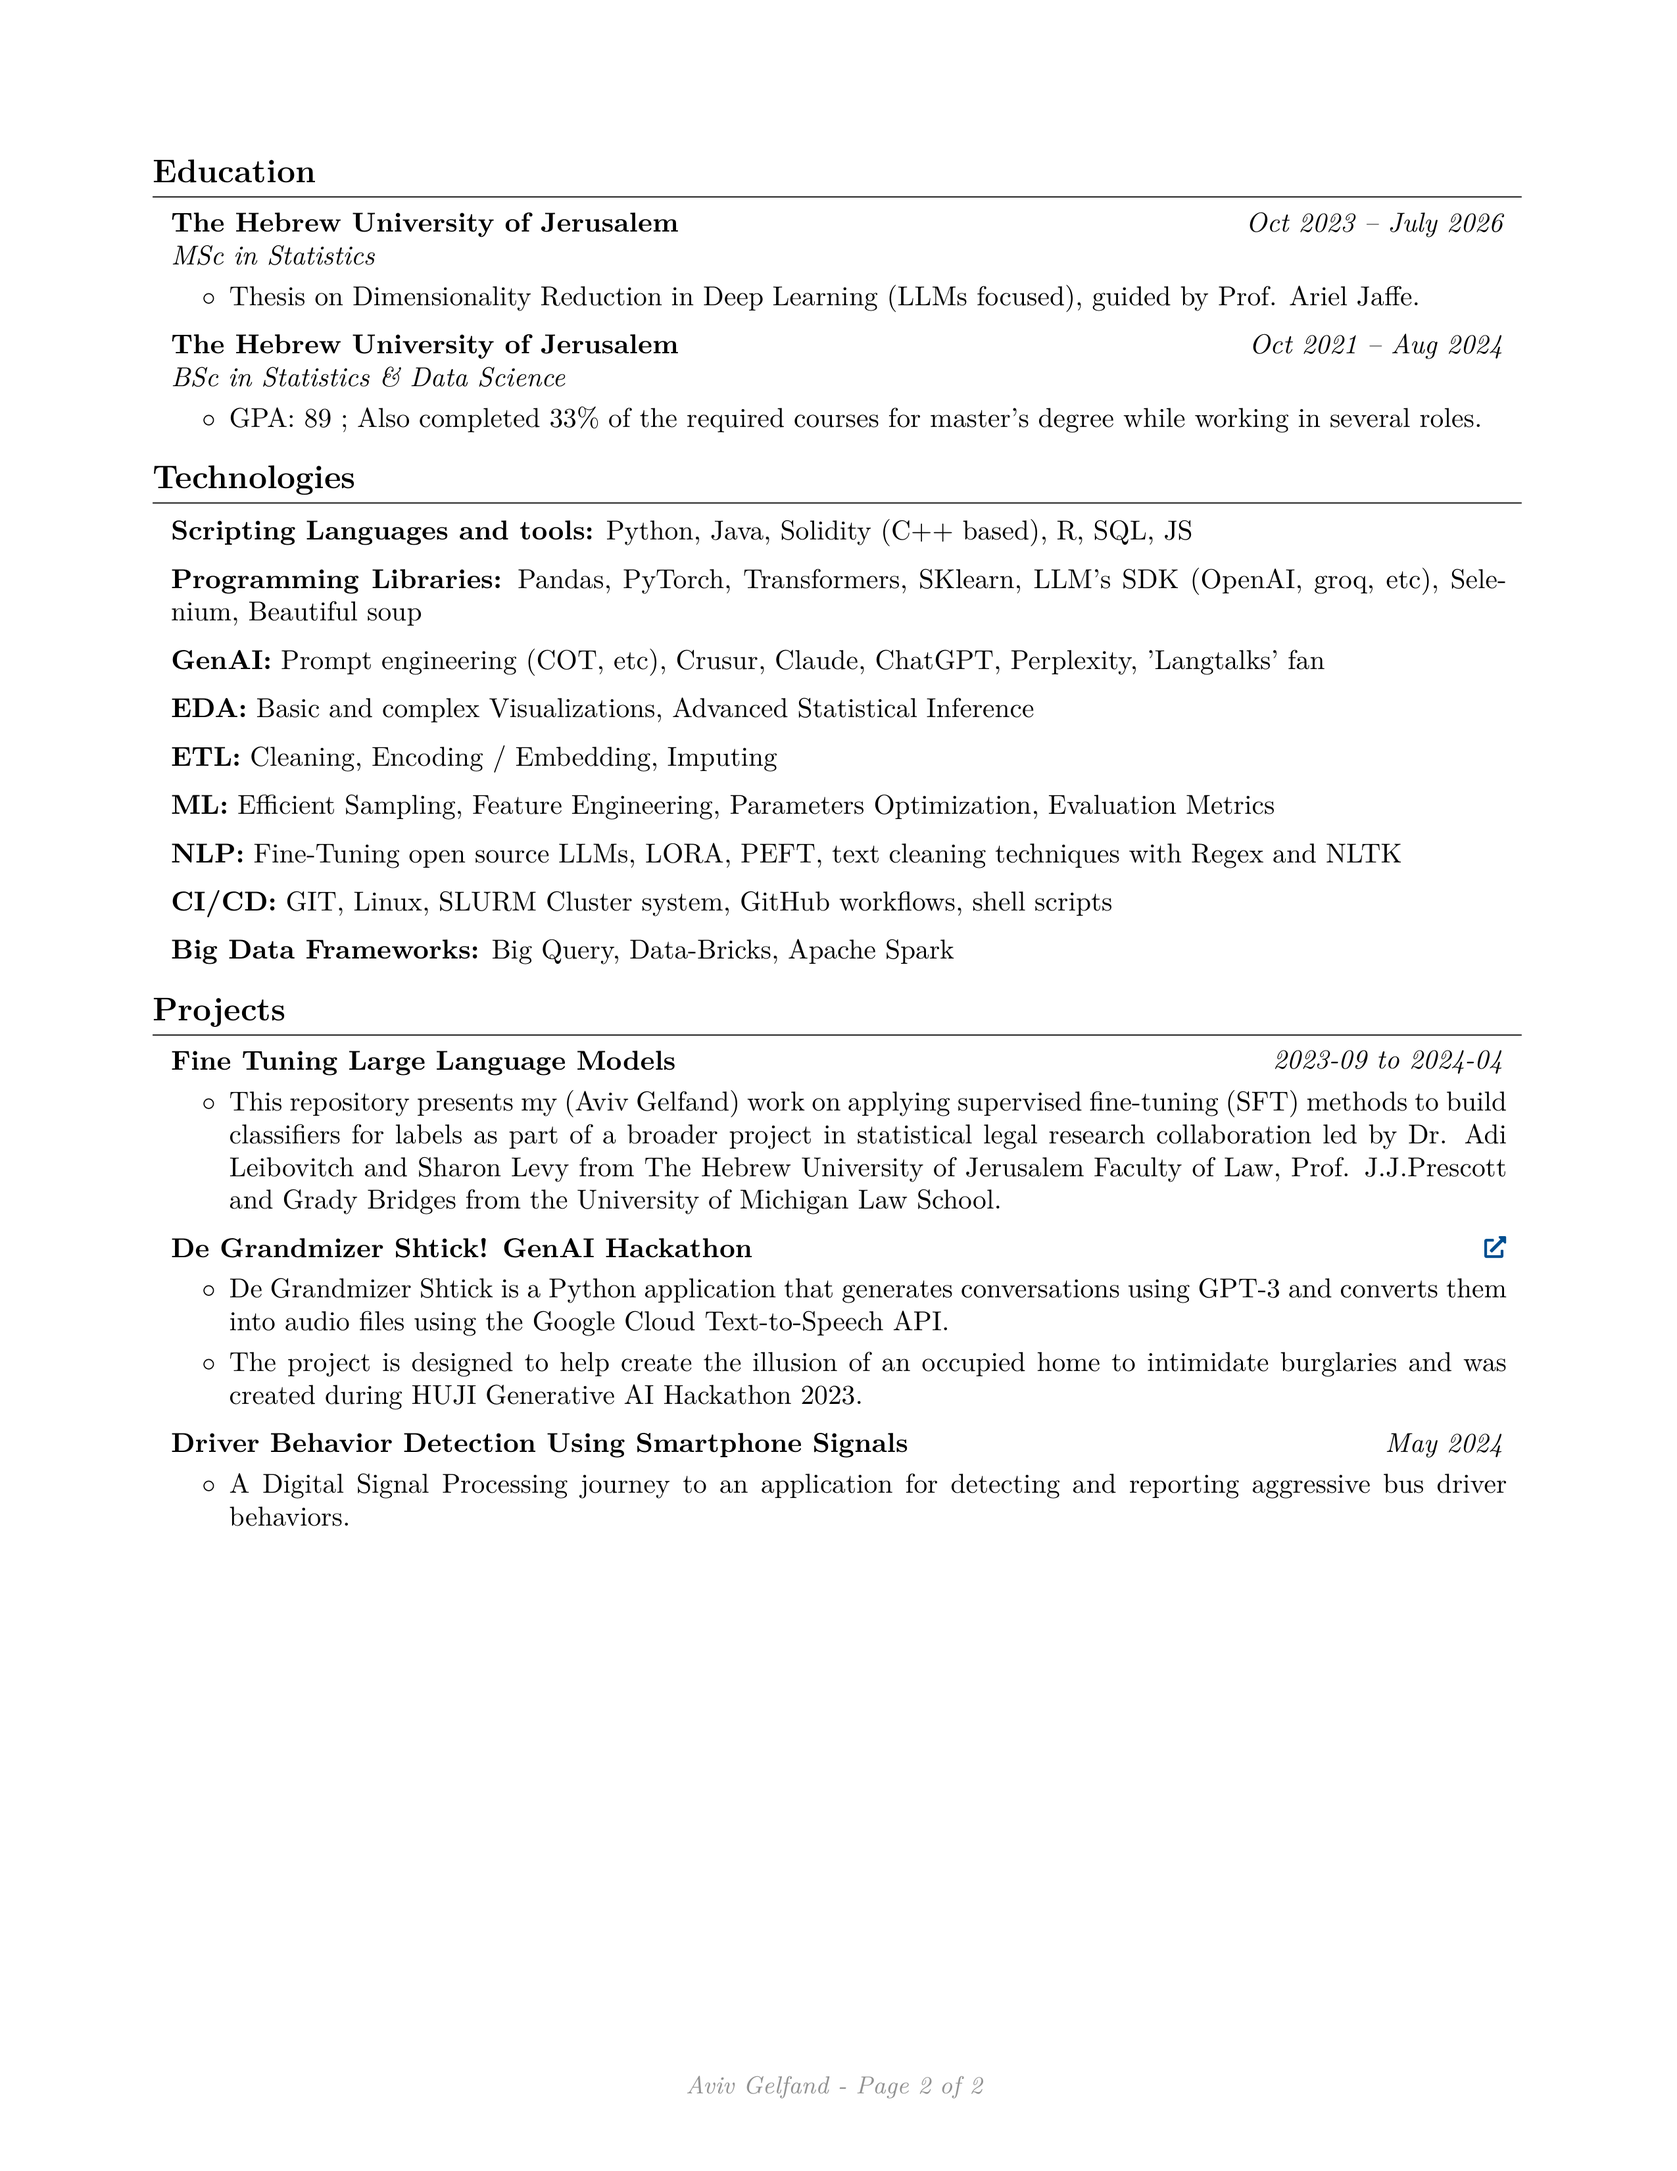
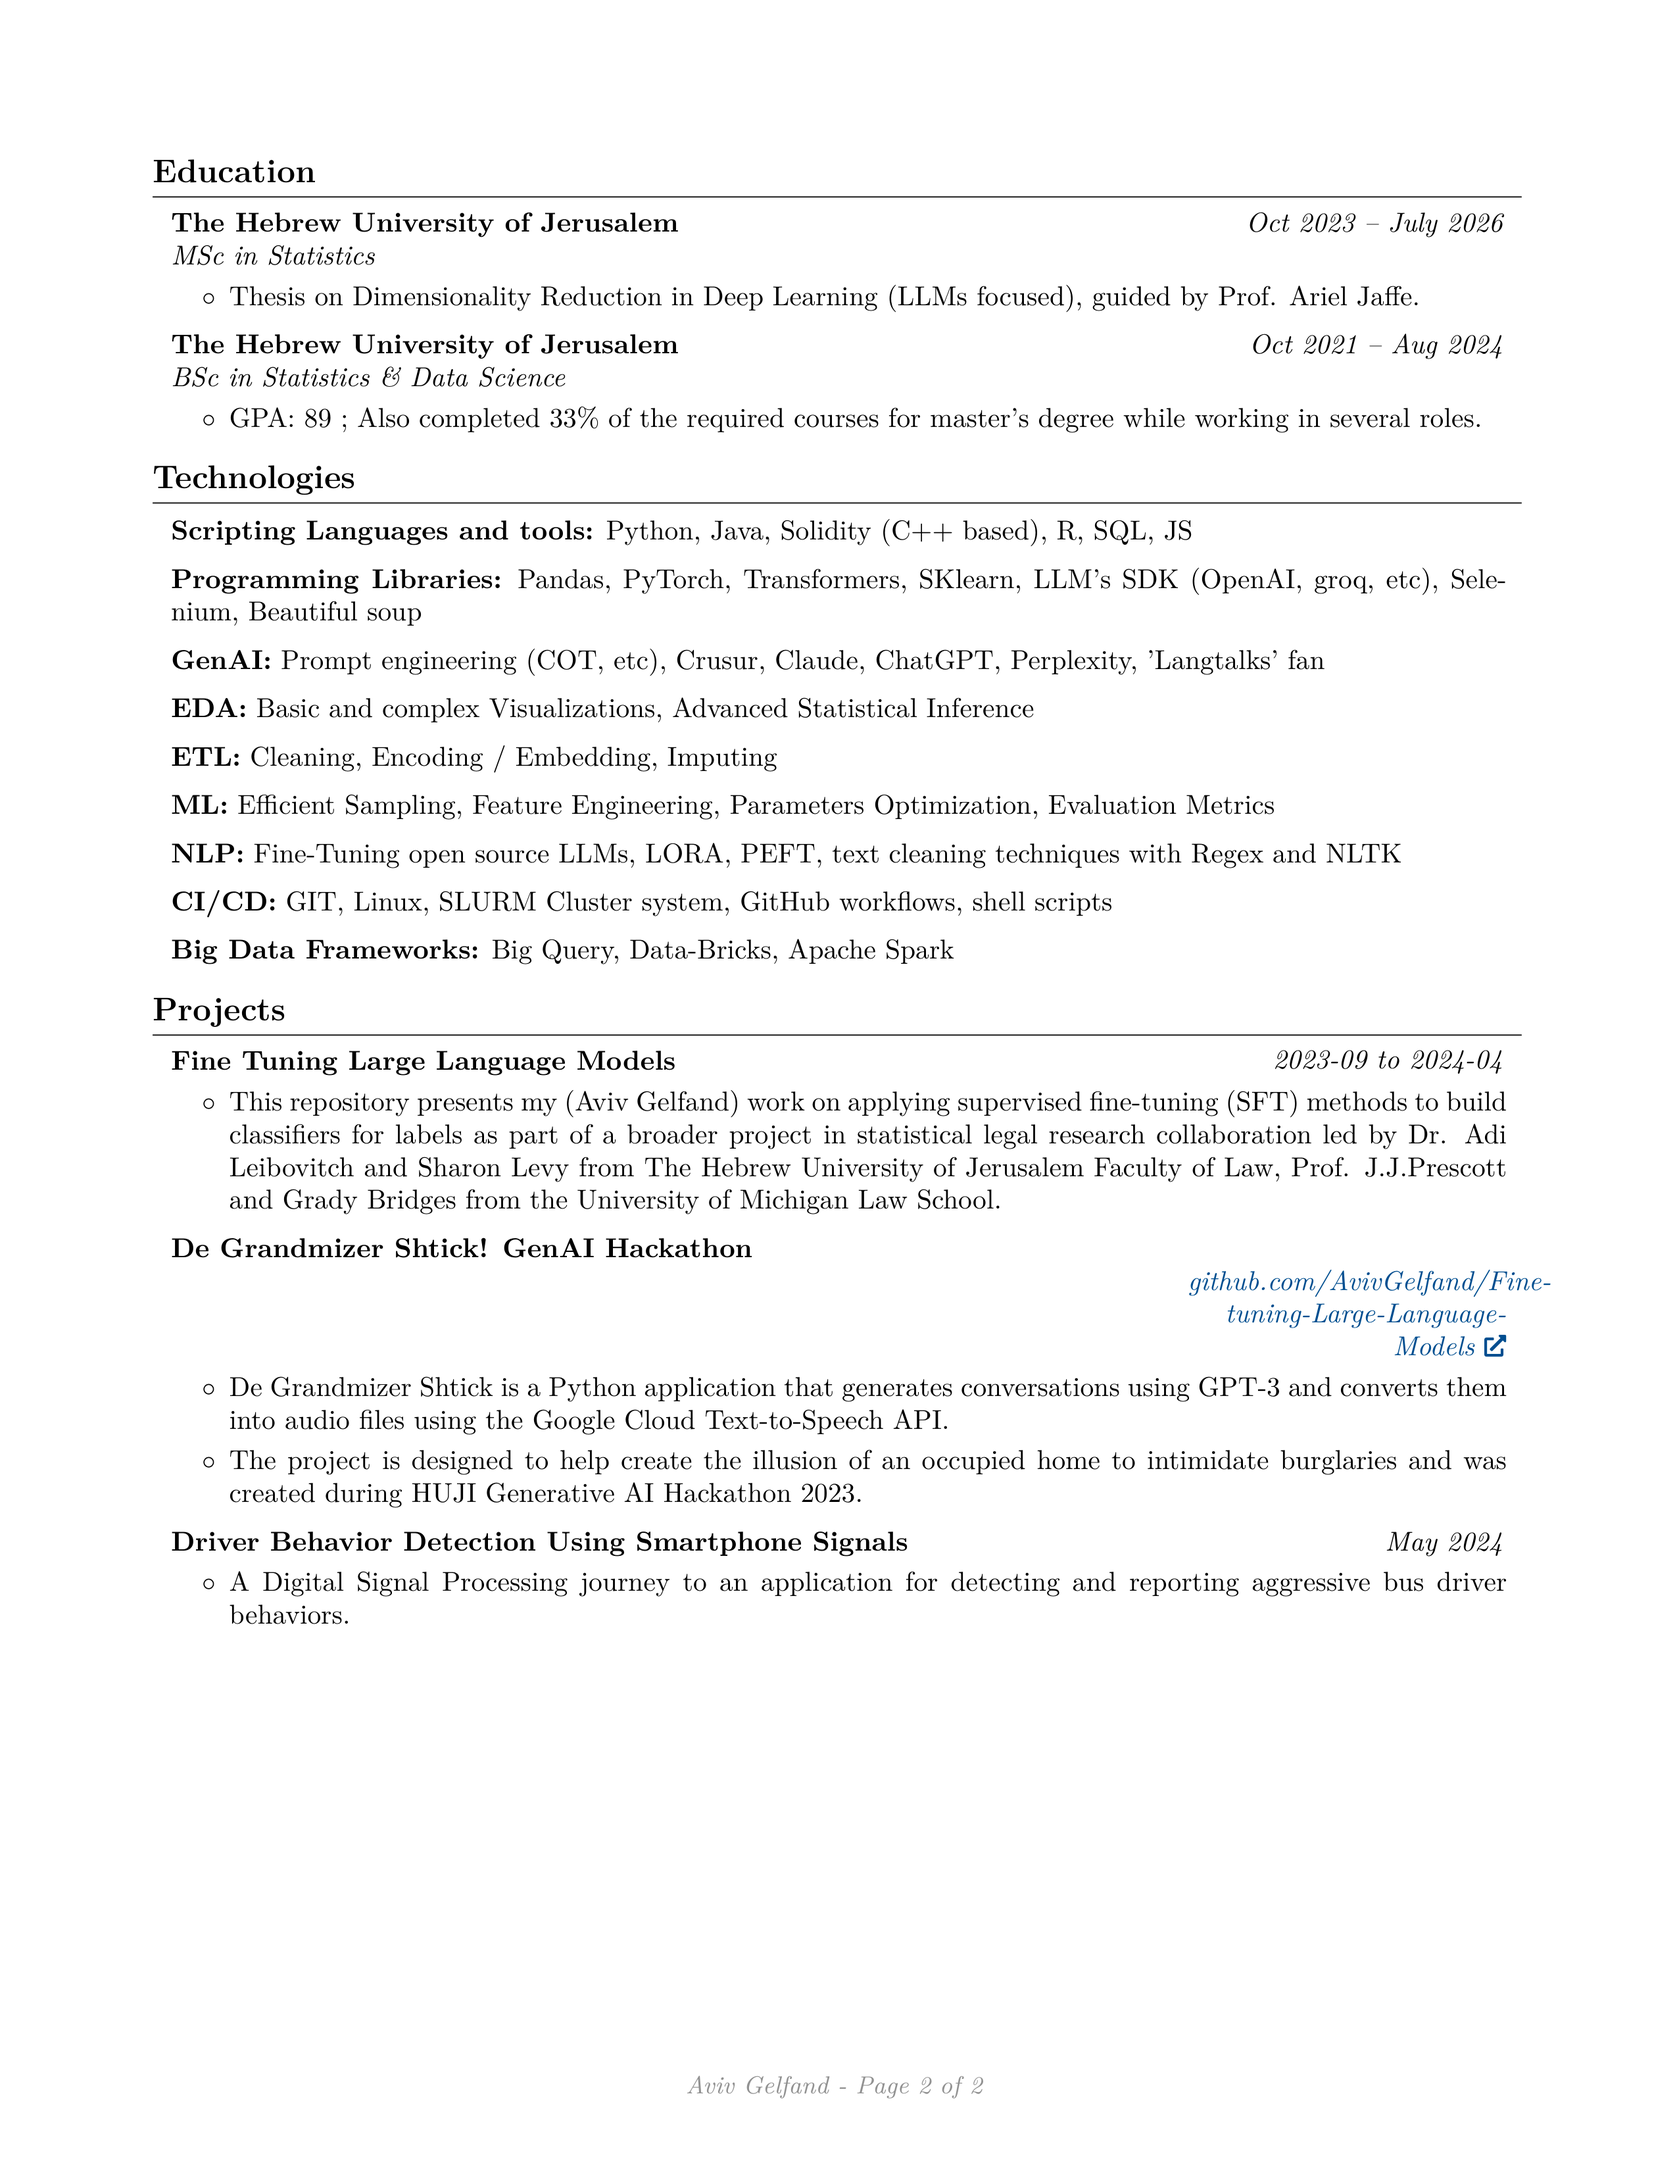
Render the latest CV

Changed region(s): [[0.1239, 0.5618, 0.8984, 0.7491]]

diff --git a/Aviv_Gelfand_CV.html b/Aviv_Gelfand_CV.html
@@ -106,7 +106,7 @@
         </ul>
         <h2>De Grandmizer Shtick! GenAI Hackathon</h2>
         <ul>
-        <li><a href="https://github.com/sinaatalay/rendercv"></a></li>
+        <li><a href="https://github.com/AvivGelfand/Fine-tuning-Large-Language-Models">github.com/AvivGelfand/Fine-tuning-Large-Language-Models</a></li>
         <li>De Grandmizer Shtick is a Python application that generates conversations using GPT-3 and converts them into audio files using the Google Cloud Text-to-Speech API.</li>
         <li>The project is designed to help create the illusion of an occupied home to intimidate burglaries and was created during HUJI Generative AI Hackathon 2023.</li>
         </ul>

diff --git a/Aviv_Gelfand_CV.tex b/Aviv_Gelfand_CV.tex
@@ -414,7 +414,7 @@
         \begin{twocolentry}{
             
             
-        \textit{\href{https://github.com/sinaatalay/rendercv}{}}}
+        \textit{\href{https://github.com/AvivGelfand/Fine-tuning-Large-Language-Models}{github.com/AvivGelfand/Fine-tuning-Large-Language-Models}}}
             \textbf{De Grandmizer Shtick! GenAI Hackathon}
         \end{twocolentry}
 

diff --git a/README.md b/README.md
@@ -76,7 +76,7 @@
 
 ## De Grandmizer Shtick! GenAI Hackathon
 
-- [](https://github.com/sinaatalay/rendercv)
+- [github.com/AvivGelfand/Fine-tuning-Large-Language-Models](https://github.com/AvivGelfand/Fine-tuning-Large-Language-Models)
 - De Grandmizer Shtick is a Python application that generates conversations using GPT-3 and converts them into audio files using the Google Cloud Text-to-Speech API.
 - The project is designed to help create the illusion of an occupied home to intimidate burglaries and was created during HUJI Generative AI Hackathon 2023.
 
